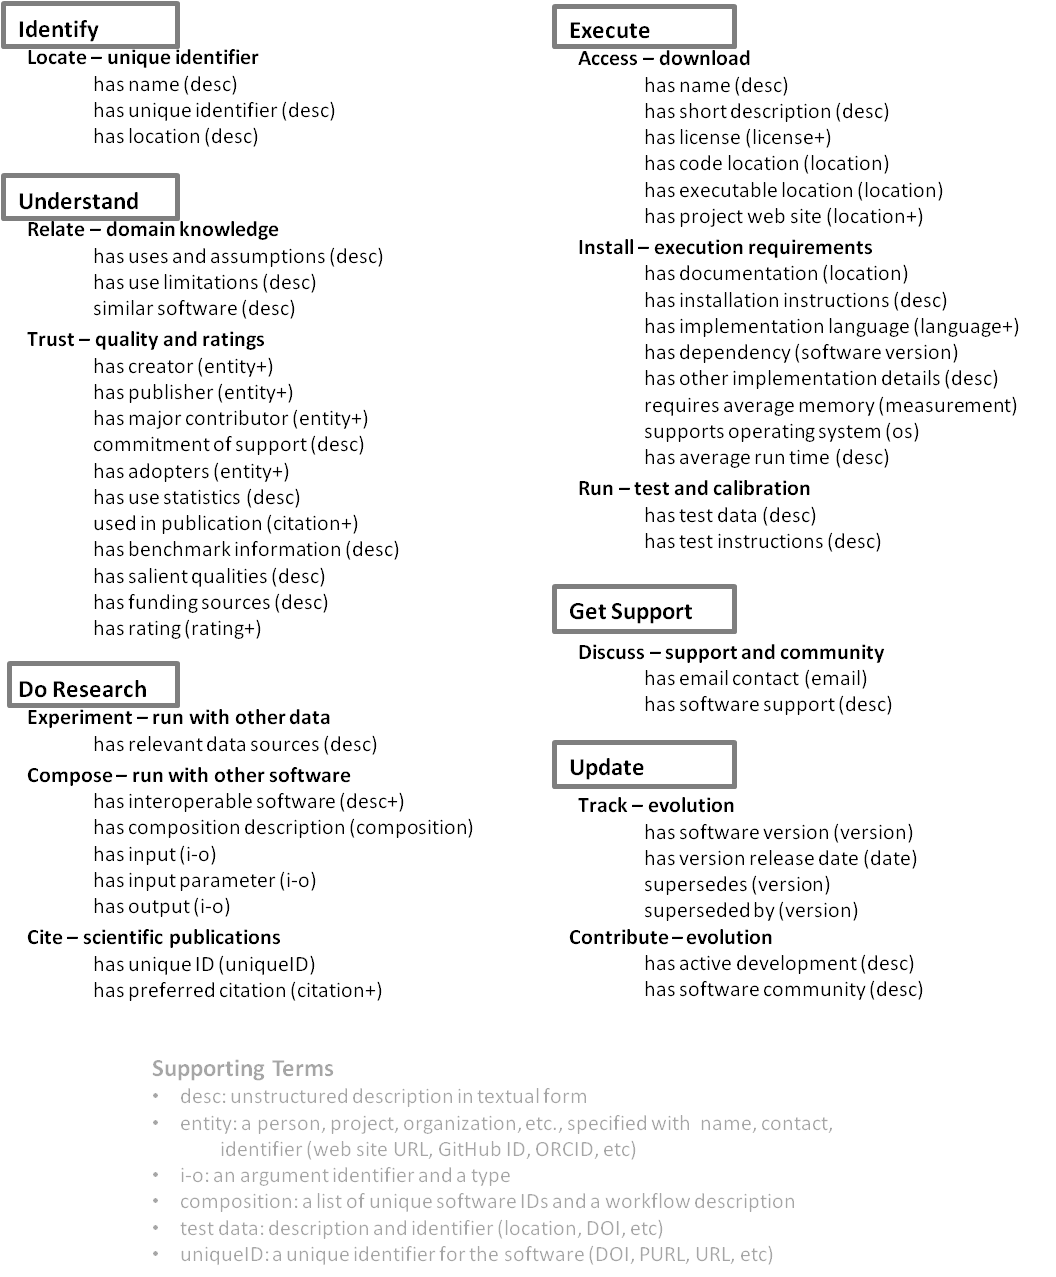
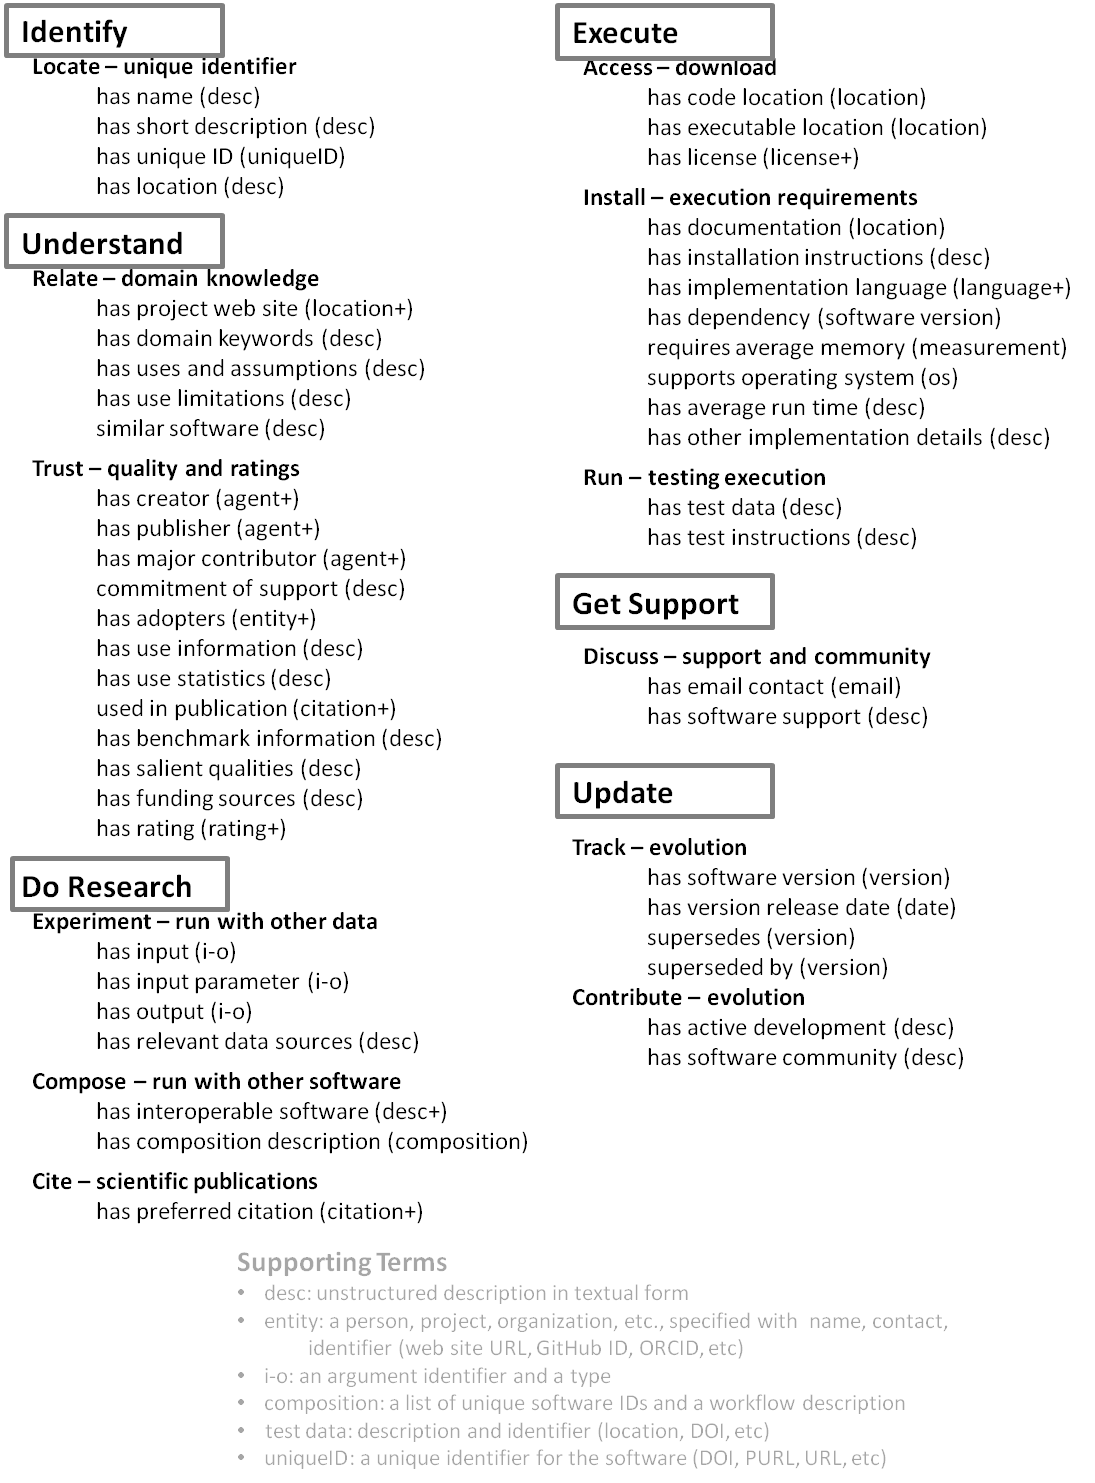
Update of the documentation
With bits from the paper.

diff --git a/ontosoft ontology/v1.0/doc/sections/description.html b/ontosoft ontology/v1.0/doc/sections/description.html
@@ -1,2 +1,56 @@
 <h2>3. OntoSoft Description <span class="backlink"> back to <a href="#toc">ToC</a></span></h2>
-<p>This section will be completed soon.</p>
+<p>A detailed description of each of the categories of OntoSoft can be seen below:
+<h3>Identifying Software</h3>
+<p>
+This category captures metadata that allows a user to identify a software entry.  This can be, for example through the name of the software mentioned by a colleague, or through an identifier found in a paper. 
+</p>
+<p>These metadata properties include the name and a short description.  The short description of the software provides important keywords to support search.
+</p>
+<p>Another important property is a unique identifier.  The unique identifier could be a DOI, a permanent URL, or a URI.  Some software may have a unique identifier provided by a software repository (such as the identifiers provided by ASCL).  For these reasons, the property takes a text value.  
+</p>
+<h3>Understanding and Assessing Software</h3>
+<p>
+The metadata in this category allows users to understand what the software does, and to assess its utility for their research.	Several metadata properties have to do with relating the software to knowledge about the domain.  One way to find out details about what the software does in the context of science is to look up the web site for the software or for a related project, which is often associated with a software product.  Other properties provide domain-specific descriptions of the software.  For example, a user may be looking for software that can model water runoff from a catchment, and that makes certain assumptions about boundary conditions unlike other alternative software that may be well known in that field.  OntoSoft includes properties to specify uses and assumptions, use limitations, and similar software that may be widely known in a community. Additional domain-specific metadata properties could be supported as an extension of OntoSoft.  
+<p>
+Another set of metadata properties have to do with trusting the software.  One aspect of this is finding out who its creator and contributors were, as well as who published the software in the registry. This could be a person, a project, or an institution, so the value of these properties is an entity .  Scientists have a name that carries a certain reputation, so the names would allow a user to check on the specific expertise of creators, contributors, and publishers. Another property allows users to specify the funding sources for the software.  We also ask for reassurances on the commitment of support of the software, which could be whether it has a development community, whether the creator has been supporting it for several years, etc.  
+</p>
+<p>
+Another aspect of trust is understanding who is using the software and how they would rate it.  The metadata properties to capture this include adopters (which again can be people, projects, entities), use statistics (extracted from the registry itself or cumulative download statistics that could be automatically extracted from the repository where the software resides), and the publications that use the software. 
+Another property is user ratings, as we envision users to rate software just like they would rate any product, that is, with stars and commentary on whether it delivers on how it is described.
+</p>
+<p>
+Other properties in this category include salient qualities that highlight the merits of the software, and benchmark information that can convey robustness or quality.  </p>
+<h3>Executing the Software</h3>
+<p>
+This category focuses on describing how to execute the software.  This goes beyond instructions to install and run it, and includes how to access the software and how to run it with test data.  </p>
+<p>
+Several properties address the access of the code itself.  They include license information, a location where the code resides (a repository or a local URL), and a location where a self-contained executable could be found.  This is because many scientists do not want to go through the trouble of installing the original source code, and would prefer a pointer to an executable that can be directly run.</p>
+<p>
+Other properties provide execution requirements that allow the installation of the software. These include documentation and installation instructions, the implementation language, the operating system, and average memory requirements.  Another important property is the runtime dependencies, for example libraries that should be installed in the machine where the software is run.  The average runtime is also important, and this would typically not be just a number but an explanation of what to expect the runtime to be depending on the size or characteristics of the data.  We include a property to specify additional implementation details, which are described in free text form.
+</p><p>
+There are also properties that help a user run the software.  These include pointers to test datasets, and instructions to check that the software runs properly and to check that the right results are obtained for the test data.
+</p>
+<h3>Getting Support for the Software</h3>
+<p>This category addresses how users can get support if they have any questions about the appropriate use of the software, have any problems with its installation, or wish to ask about specific cases not described in the documentation.  These metadata properties include an email address to contact and a description of whether and how the software is supported.
+</p>
+<h3>Doing Research with the Software</h3>
+<p>
+This category includes metadata to enable scientists to do research with the software they want to use.  Note that the metadata properties in the second category (understanding the software) are relevant here, but we expect the user is already aware of those since they would be considered before wishing to install and run the software.</p>
+<p>
+Some metadata properties specify the particular input and output requirements of the software.  This includes the types and constraints on the input data and parameters, as well as the expected outputs. Another important metadata property points the user to data sources where other data to run the software can be found.  For example, to run a hydrology model a user might have terrain elevation and vegetation data but may not know where to find rainfall data at the resolution required by the model, and there are national data sources (from NASA, USGS, etc) that provide such information.  This kind of link between software and data sources available to calibrate or run software is crucial to making it reusable, and is often not specified in software repositories because they are more focused on documenting the software itself rather than its use in a research context. </p>
+<p>
+Another set of properties is concerned with running the software in combination with other software, which is a common situation when doing scientific research. For example, there may be a recommended visualization software that is good for showing the results of the k-means software that the user is trying to use, or there may be a data reformatting script that converts data from a standard format into the format that the selected software uses.  This kind of information can be specified in two ways.  One is as a set of pointers to interoperable or related software.  Another way is as a software composition description, which would include a workflow description and a set of software identifiers that are part of that workflow. The workflow description does not need to be formal workflows, they can be provided as a textual/diagrammatic description.
+</p>
+<p>
+A metadata property is included to specify how to cite the software in a scientific publication.</p>
+
+<h3>Updating the Software</h3>
+<p>
+This category includes metadata to find new versions of the software, and to point users to a community or collaborative software development effort to support future extensions of the software.  
+</p>
+<p>
+Some metadata properties are provided to track version of the software.  They include software version and release date, as well as properties to indicate whether there is a newer version and whether there are older versions that are superseded by the software.  In our view, all the metadata needs to be specified for every version of the software in the registry, and it is up to the user to decide what metadata needs to be updated with a new version.  We are currently testing this aspect of the ontology to flesh out how to best manage metadata across software versions.
+</p>
+<p>
+Finally, some metadata properties allow users to find whether the software is being actively developed, and pointers to on-line communities (mailing lists, issue tracking sites, etc) who collaborate to further develop the software. 
+</p>

diff --git a/ontosoft ontology/v1.0/doc/sections/overview.html b/ontosoft ontology/v1.0/doc/sections/overview.html
@@ -1,5 +1,12 @@
 <h2>2. OntoSoft Overview <span class="backlink"> back to <a href="#toc">ToC</a></span></h2>
-<p>An overview can be seen below:</p>
+<p>The metadata captured by OntoSoft falls into six major categories based on information that a scientist would seek about the software: 1) identify software, 2) understand and assess software, 3) execute software, 4) get support for the software, 5) do research with the software, and 6) update the software. The rationale for this organization is to allow the users who contribute software to understand why the metadata is requested, and to allow the users that are looking to reuse the software where to find metadata that is relevant to them.
+</p>
+<p>
+Note that finding the software is also a very important activity that should be supported.  However, we do not have a separate category of metadata for it since we see all the metadata properties of software as possible candidates to support structured search and discovery of software.
+</p>
+<p>
+The figure below  shows an overview of the major metadata properties to describe software in OntoSoft. We show in bold the major categories and subcategories of the properties.  For each metadata property, we show its name followed in parentheses by its range (i.e., the values that it can take) indicating with a plus sign when it can take more than one value.
+</p>
 <img src="img/overview.png" height="828"/>
 <h4>Classes</h4>
 <ul class="hlist">

diff --git a/ontosoft categories ontology/v1.0/doc/sections/description.html b/ontosoft categories ontology/v1.0/doc/sections/description.html
@@ -1,2 +1,3 @@
 <h2>3. OntoSoftCategories Description <span class="backlink"> back to <a href="#toc">ToC</a></span></h2>
-<p>Complete description of the ontology: a diagram explaining how the classes are related, examples of usage, etc.</p>
+<p><p>The metadata captured by the OntoSoftCategories ontology falls into six major categories based on information that a scientist would seek about the software: 1) identify software, 2) understand and assess software, 3) execute software, 4) get support for the software, 5) do research with the software, and 6) update the software. The rationale for this organization is to allow the users who contribute software to understand why the metadata is requested, and to allow the users that are looking to reuse the software where to find metadata that is relevant to them.
+</p>

diff --git a/ontosoft categories ontology/v1.0/doc/sections/overview.html b/ontosoft categories ontology/v1.0/doc/sections/overview.html
@@ -1,5 +1,5 @@
 <h2>2. OntoSoftCategories Overview <span class="backlink"> back to <a href="#toc">ToC</a></span></h2>
-<p>Overview of the ontology goes here: a few sentences explaining the main concepts of the ontology</p>
+<p>This ontology defines the main categories to classify software metadata properties. An overview of the categories can be seen below.</p>
 <h4>Classes</h4>
 <ul class="hlist">
    <li>

diff --git a/ontosoft categories ontology/v1.0/doc/sections/references.html b/ontosoft categories ontology/v1.0/doc/sections/references.html
@@ -1,2 +1,2 @@
 <h2>5. References <span class="backlink"> back to <a href="#toc">ToC</a></span></h2>
-<p>Add your references here in a list. It is recommended to have them as a list.</p>
+<p>No references have been used in this document.</p>

diff --git a/ontosoft ontology/v1.0/doc/sections/references.html b/ontosoft ontology/v1.0/doc/sections/references.html
@@ -1,2 +1,2 @@
 <h2>5. References <span class="backlink"> back to <a href="#toc">ToC</a></span></h2>
-<p>Add references (To Do)</p>
+<p>No references have been used in this document</p>
